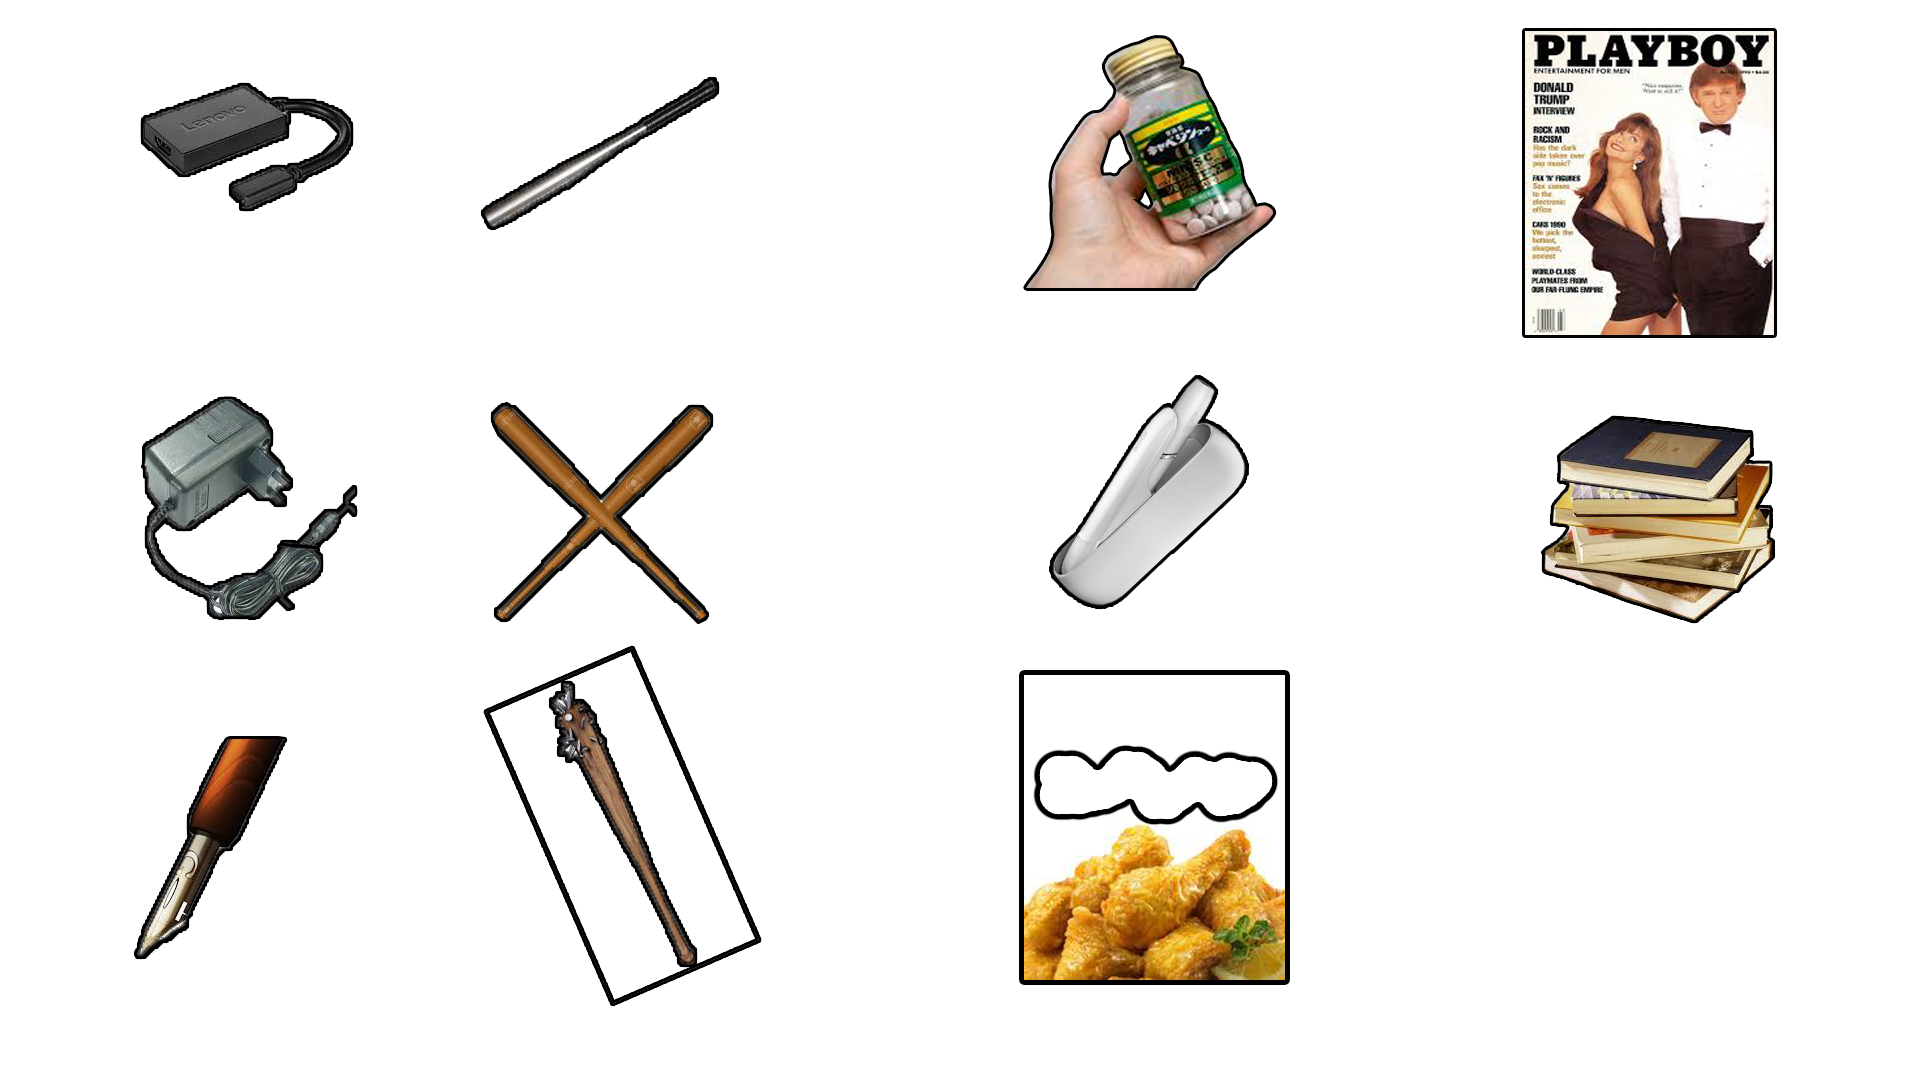
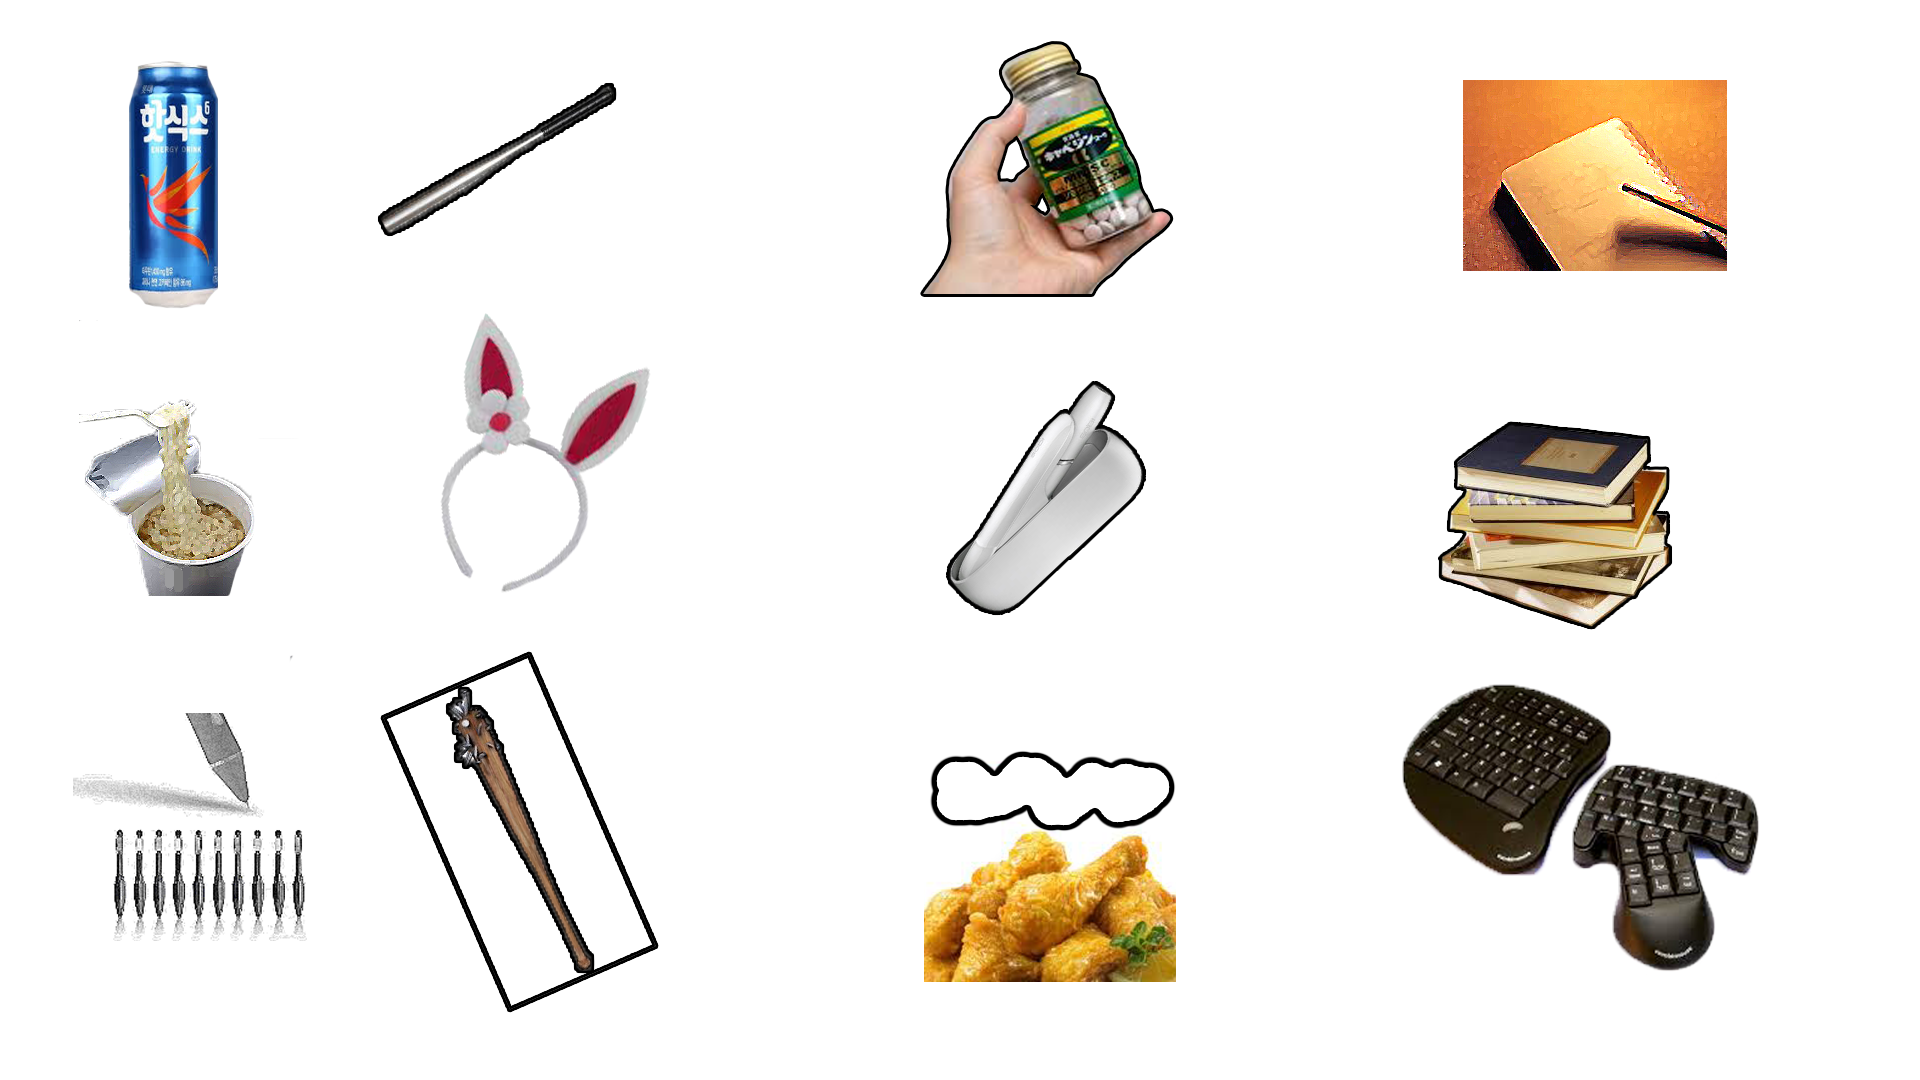
- 카드 오브젝트 수정 - 인벤토리 수정

diff --git a/Assets/Scripts/Gamedata.cs b/Assets/Scripts/Gamedata.cs
@@ -23,9 +23,11 @@ public class EventInfo
     public Text              m_textContent;     // 내용
 }
 
+[Serializable]
 public class ItemInfo
 {
     public string Name;             // 아이템명
+    public string Image;            // 이미지명
     public int Consumable;          // 일회성 
     public string Description;      // 아이템 설명
 }
@@ -46,14 +48,48 @@ public class Gamedata : Singleton<Gamedata> {
         LoadResource();
     }
 
-    private void LoadResource()
+    private void LoadItems()
     {
         Sprite[] sprites = Resources.LoadAll<Sprite>("Item/Item");
 
-        foreach (Sprite sprite in sprites)
-        {
-            m_dicItem.Add(sprite.name, sprite);
+        foreach (Sprite sprite in sprites){
+
+            if(sprite.name == "Item_0")
+                m_dicItem.Add("핫식스", sprite);
+
+            else if (sprite.name == "Item_1")
+                m_dicItem.Add("야구 방망이", sprite);
+
+            else if (sprite.name == "Item_2")
+                m_dicItem.Add("위장약", sprite);
+
+            else if (sprite.name == "Item_3")
+                m_dicItem.Add("사촌 누나의 연락처", sprite);
+
+            else if (sprite.name == "Item_4")
+                m_dicItem.Add("타블렛 펜심", sprite);
+
+            else if (sprite.name == "Item_5")
+                m_dicItem.Add("토끼 머리띠", sprite);
+
+            else if (sprite.name == "Item_6")
+                m_dicItem.Add("컵라면", sprite);
+
+            else if (sprite.name == "Item_8")
+                m_dicItem.Add("담배", sprite);
+
+            else if (sprite.name == "Item_10")
+                m_dicItem.Add("치킨", sprite);
+
+            else if (sprite.name == "Item_11")
+                m_dicItem.Add("무선 키보드", sprite);
         }
+    }
+
+    private void LoadResource()
+    {
+        LoadItems();
+       
     }
 
     private void LoadFromJsonFile()

diff --git a/Assets/Scripts/SelectScene.cs b/Assets/Scripts/SelectScene.cs
@@ -44,6 +44,7 @@ public class SelectScene : Singleton<SelectScene> {
         else if (Input.GetKeyDown(KeyCode.B))
         {
             PopupInventory.Instantiate();
+            
         }
 
         else if (Input.GetKeyDown(KeyCode.C))
@@ -81,12 +82,15 @@ public class SelectScene : Singleton<SelectScene> {
         m_nNowCardCount++;
 
         // 인벤토리에 해당 아이템 추가
-        Gamedata.m_listInventory.Add(info);
+        if(Gamedata.m_listInventory.Count < m_nTotalCardCount)
+            Gamedata.m_listInventory.Add(info);
 
         // 1회성 아이템 처리
         if (0 != info.Consumable) {
             m_listItem.Remove(info);
         }
+
+        StartCoroutine(StartCardSelect());
     }
 
 }

diff --git a/Assets/Scripts/MouseOverable.cs b/Assets/Scripts/MouseOverable.cs
@@ -24,8 +24,10 @@ public class MouseOverable : EventTrigger
 
     public override void OnPointerEnter(PointerEventData eventData)
     {
-        base.OnPointerEnter(eventData);
-        popup = OverPopup.Instantiate(title, description, eventData.position);
+        if (title != ""){
+            base.OnPointerEnter(eventData);
+            popup = OverPopup.Instantiate(title, description, eventData.position);
+        }
     }
 
     public override void OnPointerExit(PointerEventData eventData)

diff --git a/Assets/Scripts/CardObject.cs b/Assets/Scripts/CardObject.cs
@@ -1,11 +1,13 @@
 using System.Collections;
 using System.Collections.Generic;
 using UnityEngine;
+using UnityEngine.UI;
 
 public class CardObject : MonoBehaviour {
 
     public DelegateOnSelect m_delOnSelect;
     public ItemInfo m_Iteminfo;
+    public Image m_imgItem;
 
 
     public void Init(ItemInfo info, DelegateOnSelect del)

diff --git a/Assets/Scripts/Popup/PopupInventory.cs b/Assets/Scripts/Popup/PopupInventory.cs
@@ -33,6 +33,8 @@ public class PopupInventory : MonoBehaviour {
         PopupInventory popup = obj.GetComponent<PopupInventory>();
         obj.transform.SetParent(m_canvas.transform);
         popup.GetComponent<RectTransform>().localPosition = new Vector3(0, 0, 0);
+        popup.Init();
+
         return popup;
     }
 
